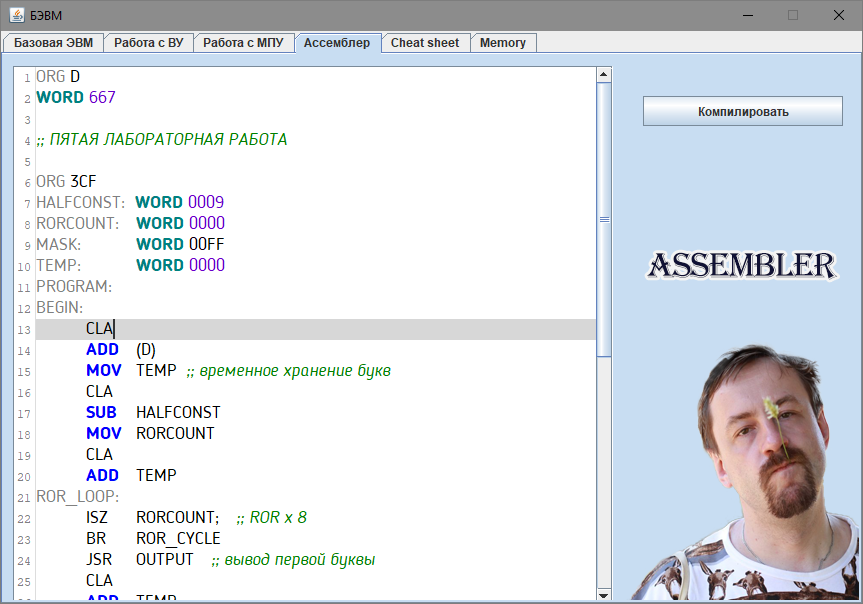
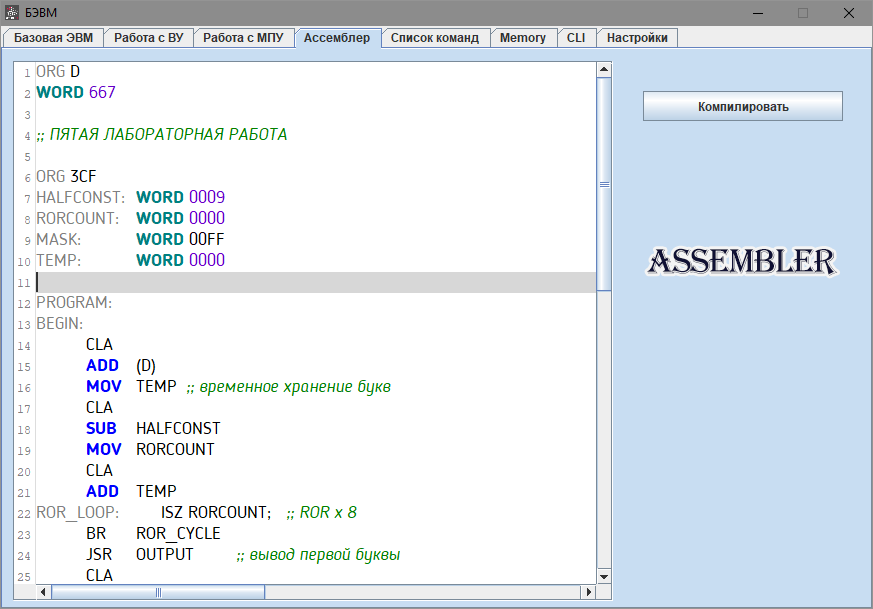
cosmetic changes

Changed region(s): [[0.0, 0.0, 1.0, 1.0]]

diff --git a/src/main/java/application/views/AssemblerView.java b/src/main/java/application/views/AssemblerView.java
@@ -46,7 +46,7 @@ public class AssemblerView extends ActivateblePanel {
 
     {
         try {
-            String backgroundPath = "/klimenkov.png";
+            String backgroundPath = "/assembler-icon.png";
 
             InputStream in = getClass().getResourceAsStream(backgroundPath);
             if (in != null) img = ImageIO.read(in);
@@ -113,7 +113,7 @@ public class AssemblerView extends ActivateblePanel {
 //        this.setBackground(Color.BLUE);
 //        g.setColor(Color.DARK_GRAY);
 //        g.fillRect(0, 0, this.getWidth(), this.getHeight());
-        if (img != null) g.drawImage(img, 0, 0, this);
+        if (img != null) g.drawImage(img, this.getWidth() - 225,  190, this);
         super.paintComponent(g);
     }
     private boolean checkORG(){

diff --git a/src/main/java/application/Settings.java b/src/main/java/application/Settings.java
@@ -82,8 +82,4 @@ public final class Settings {
         init(SettingsData.getDefault());
     }
 
-    public static void main(String[] args) {
-        save();
-        init();
-    }
 }
